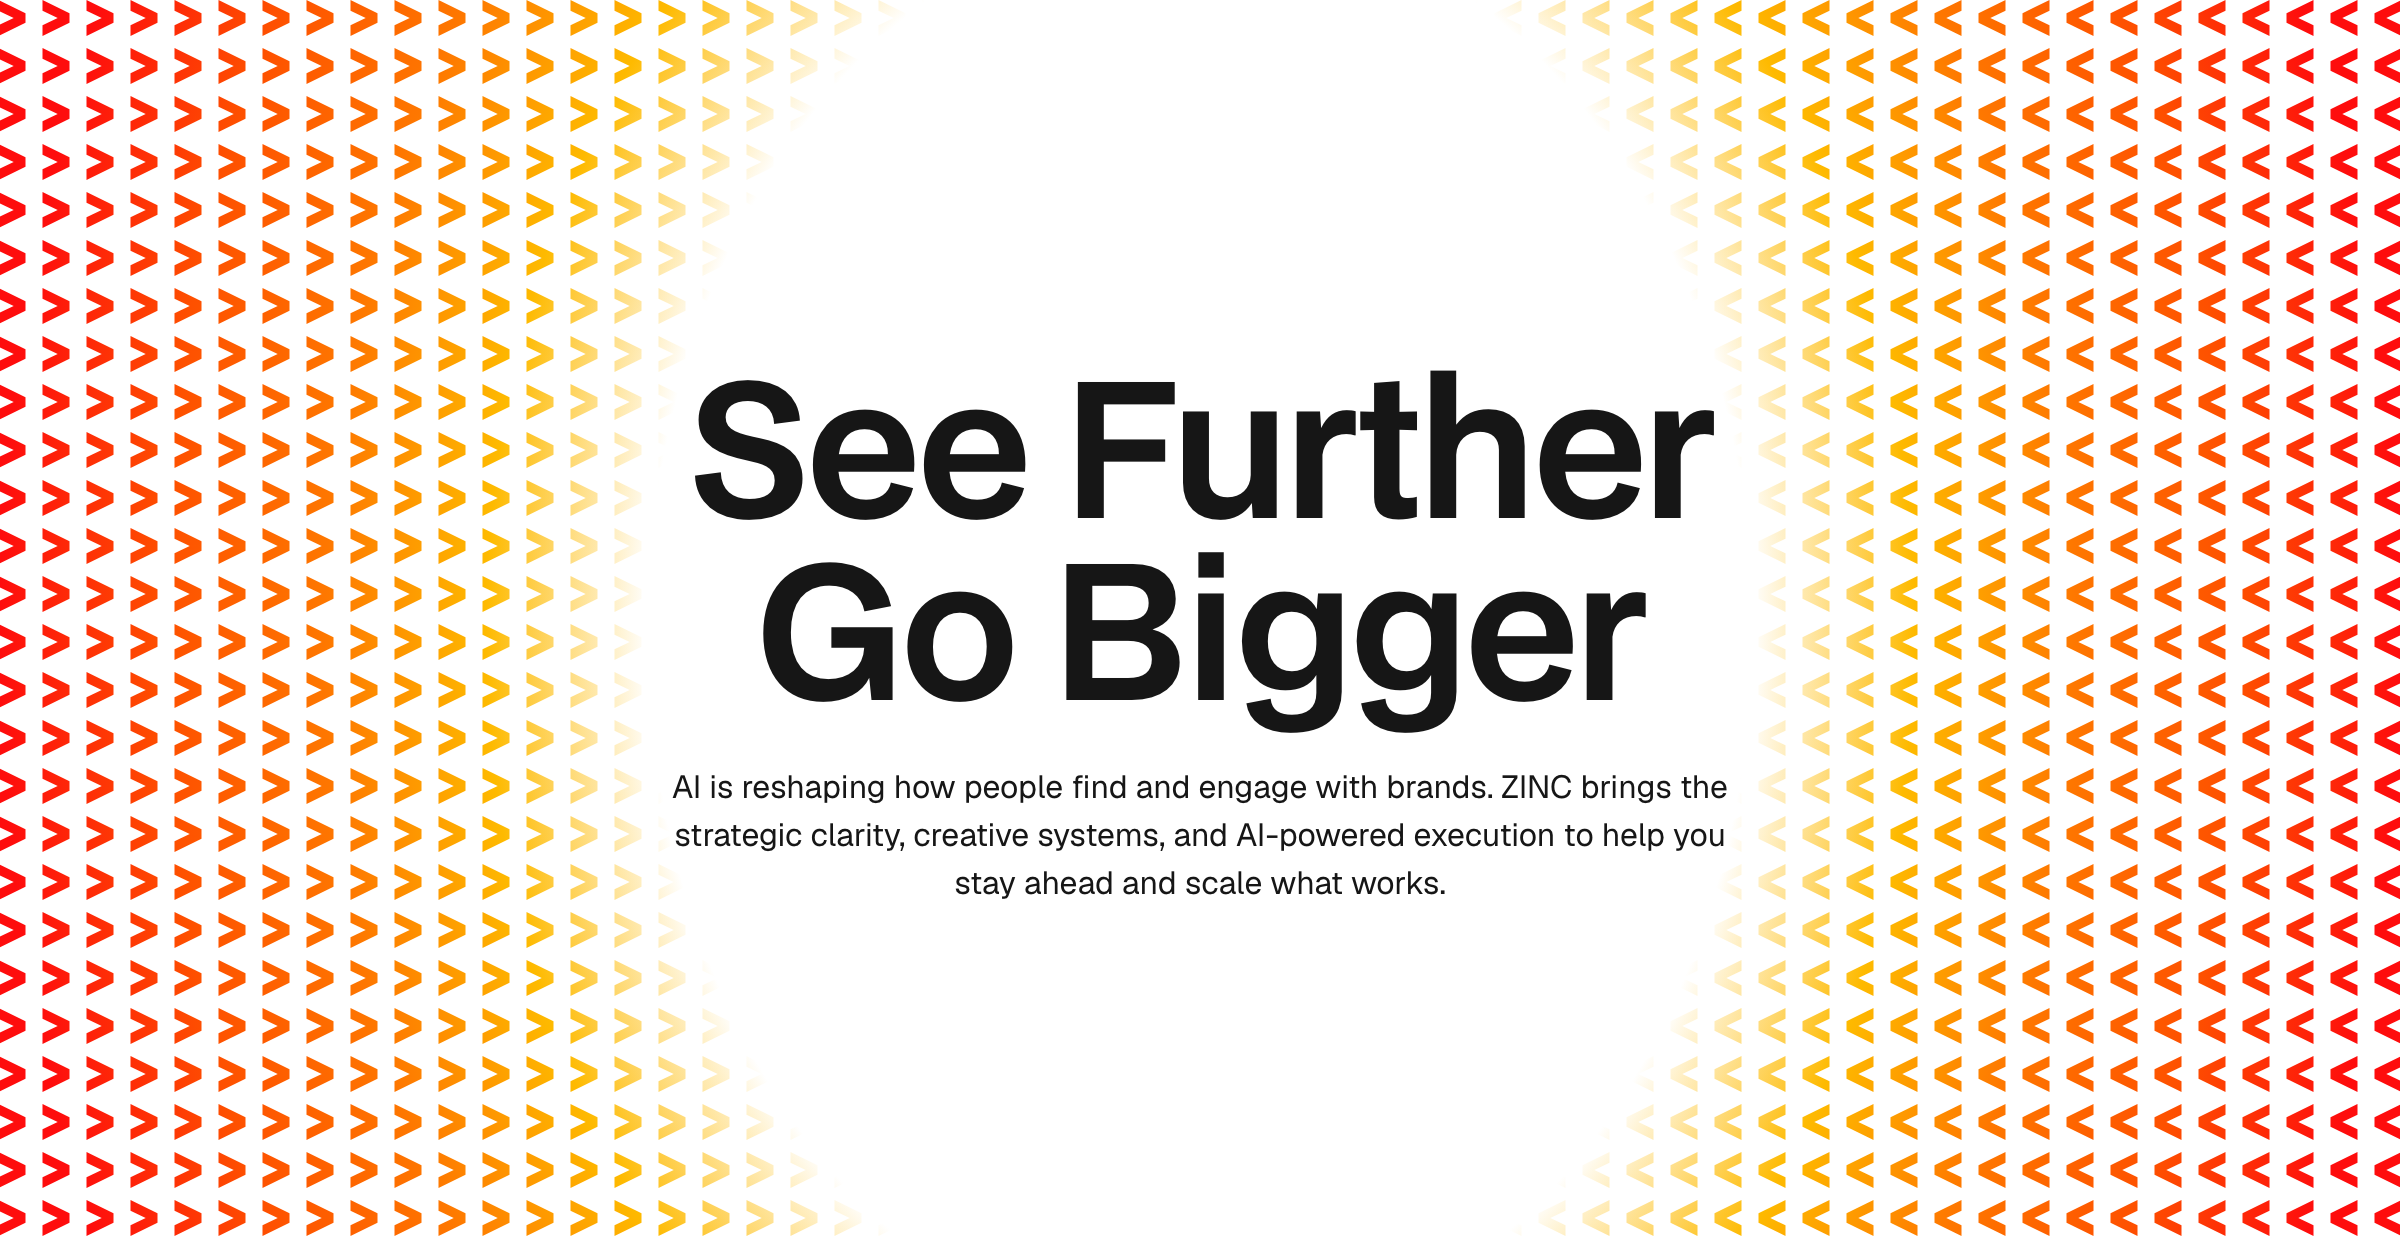
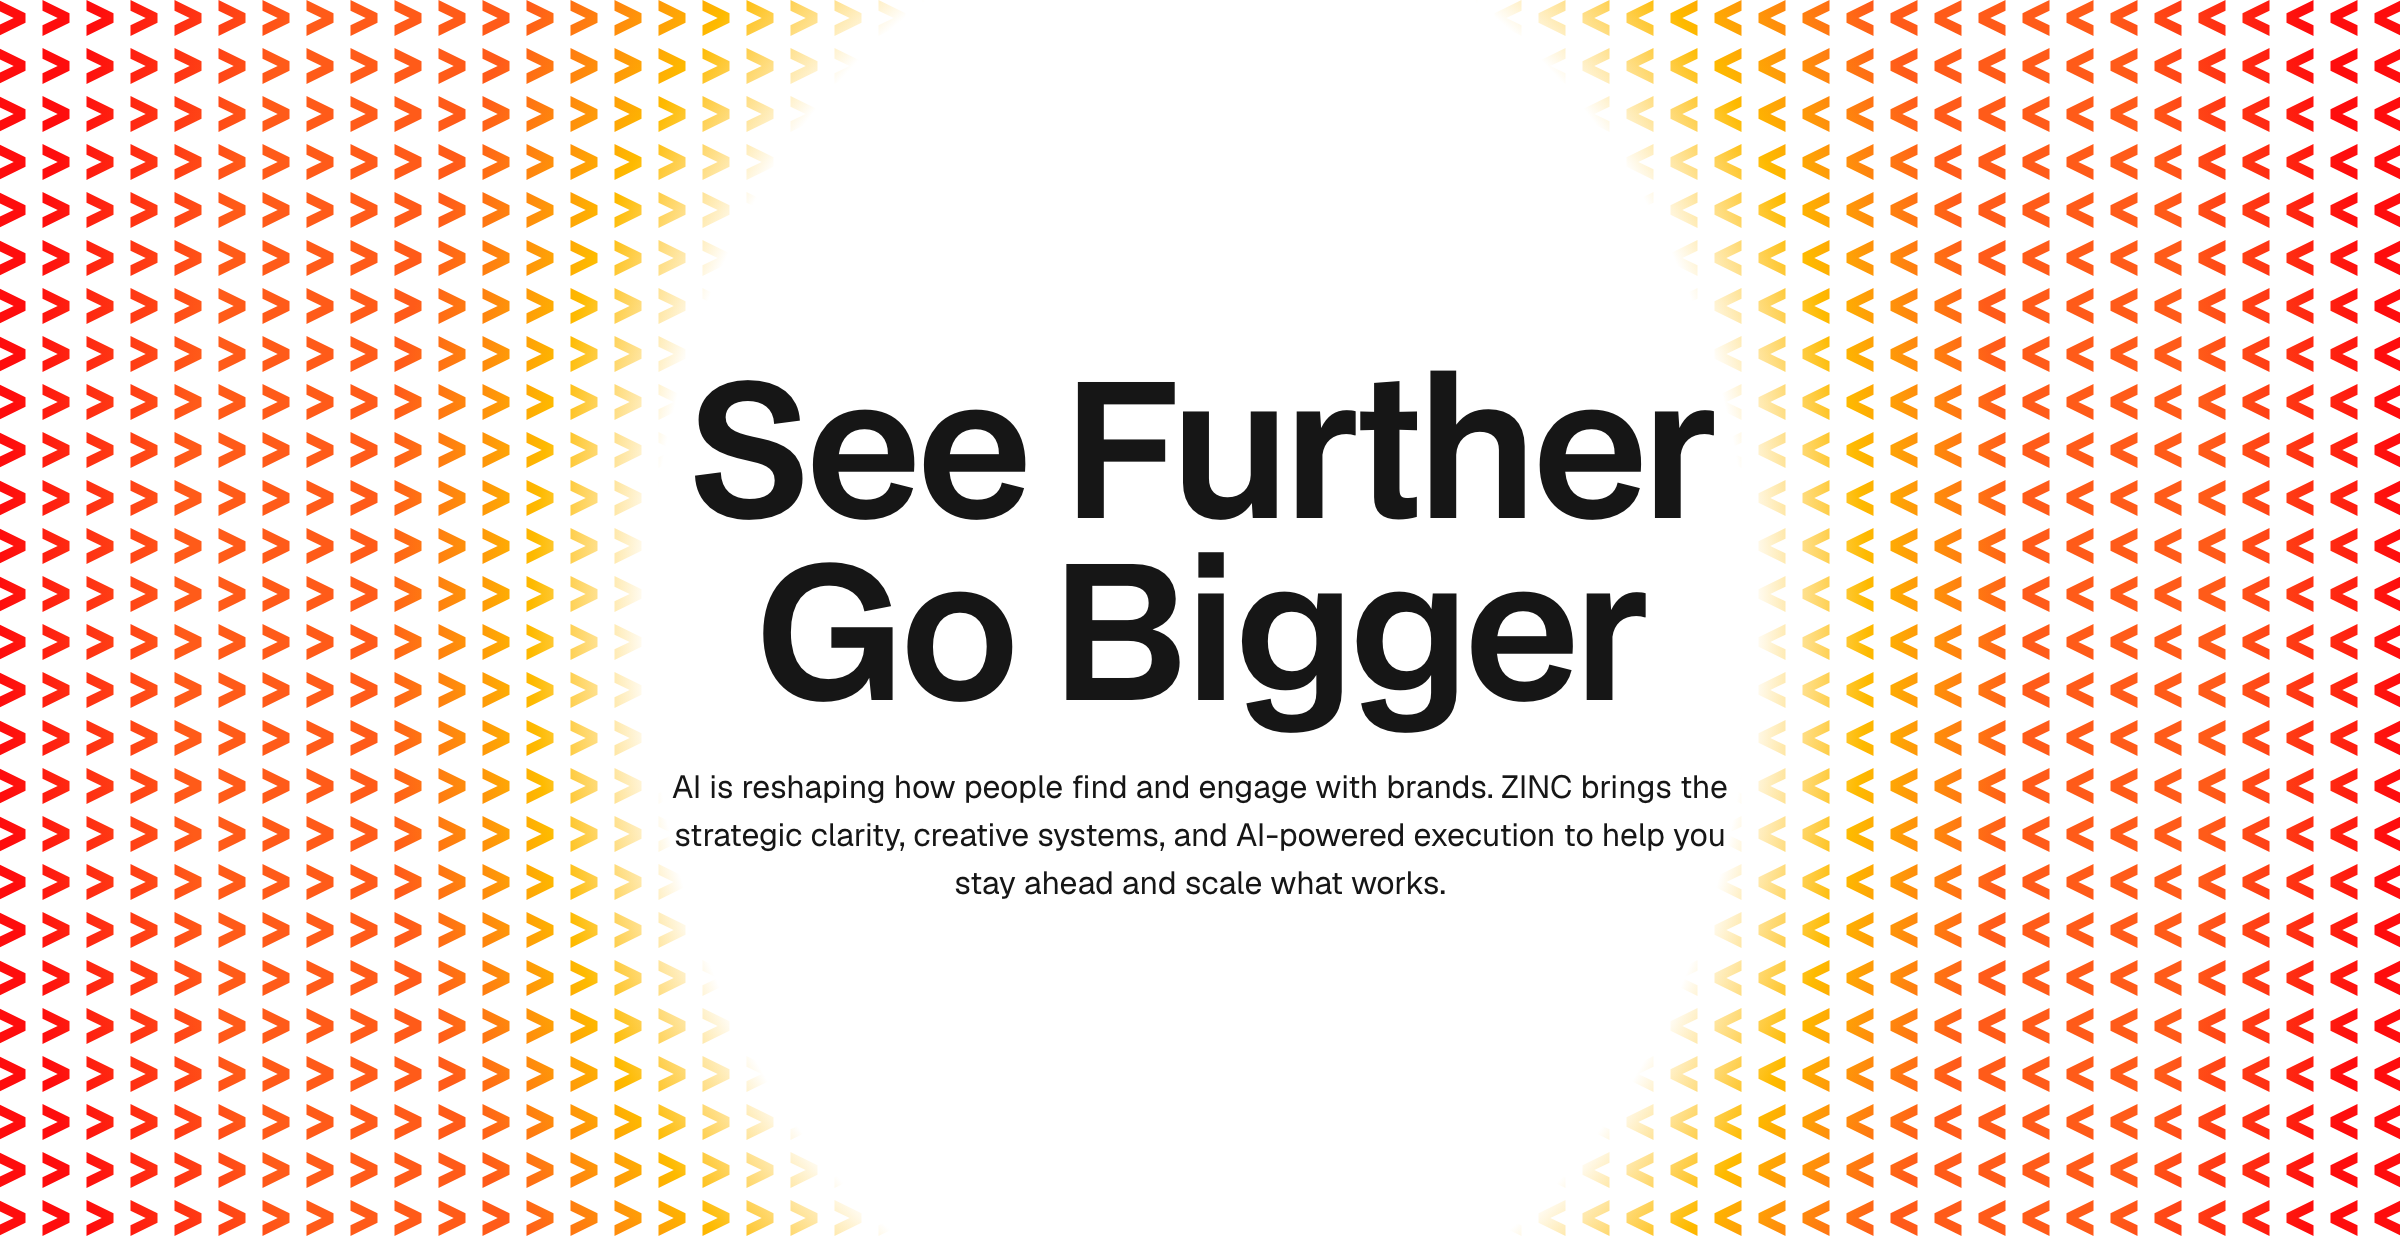
Homepage: hero gradient built around ZINC orange
The chevron field skipped the brand orange (#ff5b19, the CTA hover) on
its way from yellow to red. Stops now run page color, a short yellow
lead-in, then ZINC orange held across the middle of each band, and red
only at the outer edge, so the tie between the field and the CTA reads.
Share image re-rendered.

Changed region(s): [[0.6562, 0.0, 0.9375, 0.9905], [0.0625, 0.0, 0.3438, 0.9905]]

diff --git a/src/components/site/hero-chevrons.tsx b/src/components/site/hero-chevrons.tsx
@@ -26,8 +26,7 @@ const ENTER_START_RADIUS = 400;
 
 const COLORS = {
   red: "#fe0d0d",
-  orange: "#fe5000",
-  amber: "#fe7700",
+  orange: "#ff5b19", // ZINC orange, same as the CTA hover (site --orange)
   yellow: "#feba00",
   paper: "#ffffff",
 };
@@ -328,11 +327,14 @@ export function HeroChevrons({ className = "" }: { className?: string }) {
   // closer to the center at the top and bottom than they do beside the copy.
   const clear = clearFraction(width);
   const band = 1 - clear;
+  // From the copy outward: page color, a short yellow lead-in, then ZINC
+  // orange held across the middle of the band so the tie to the CTA reads
+  // clearly, and red only at the outer edge.
   const stops = [
     [clear, COLORS.paper],
-    [clear + band * 0.25, COLORS.yellow],
-    [clear + band * 0.5, COLORS.amber],
-    [clear + band * 0.75, COLORS.orange],
+    [clear + band * 0.18, COLORS.yellow],
+    [clear + band * 0.42, COLORS.orange],
+    [clear + band * 0.72, COLORS.orange],
     [1, COLORS.red],
   ] as const;
   const gradientTransform = `translate(${width / 2} ${height / 2}) scale(${width / 2} ${height * 1.25})`;
